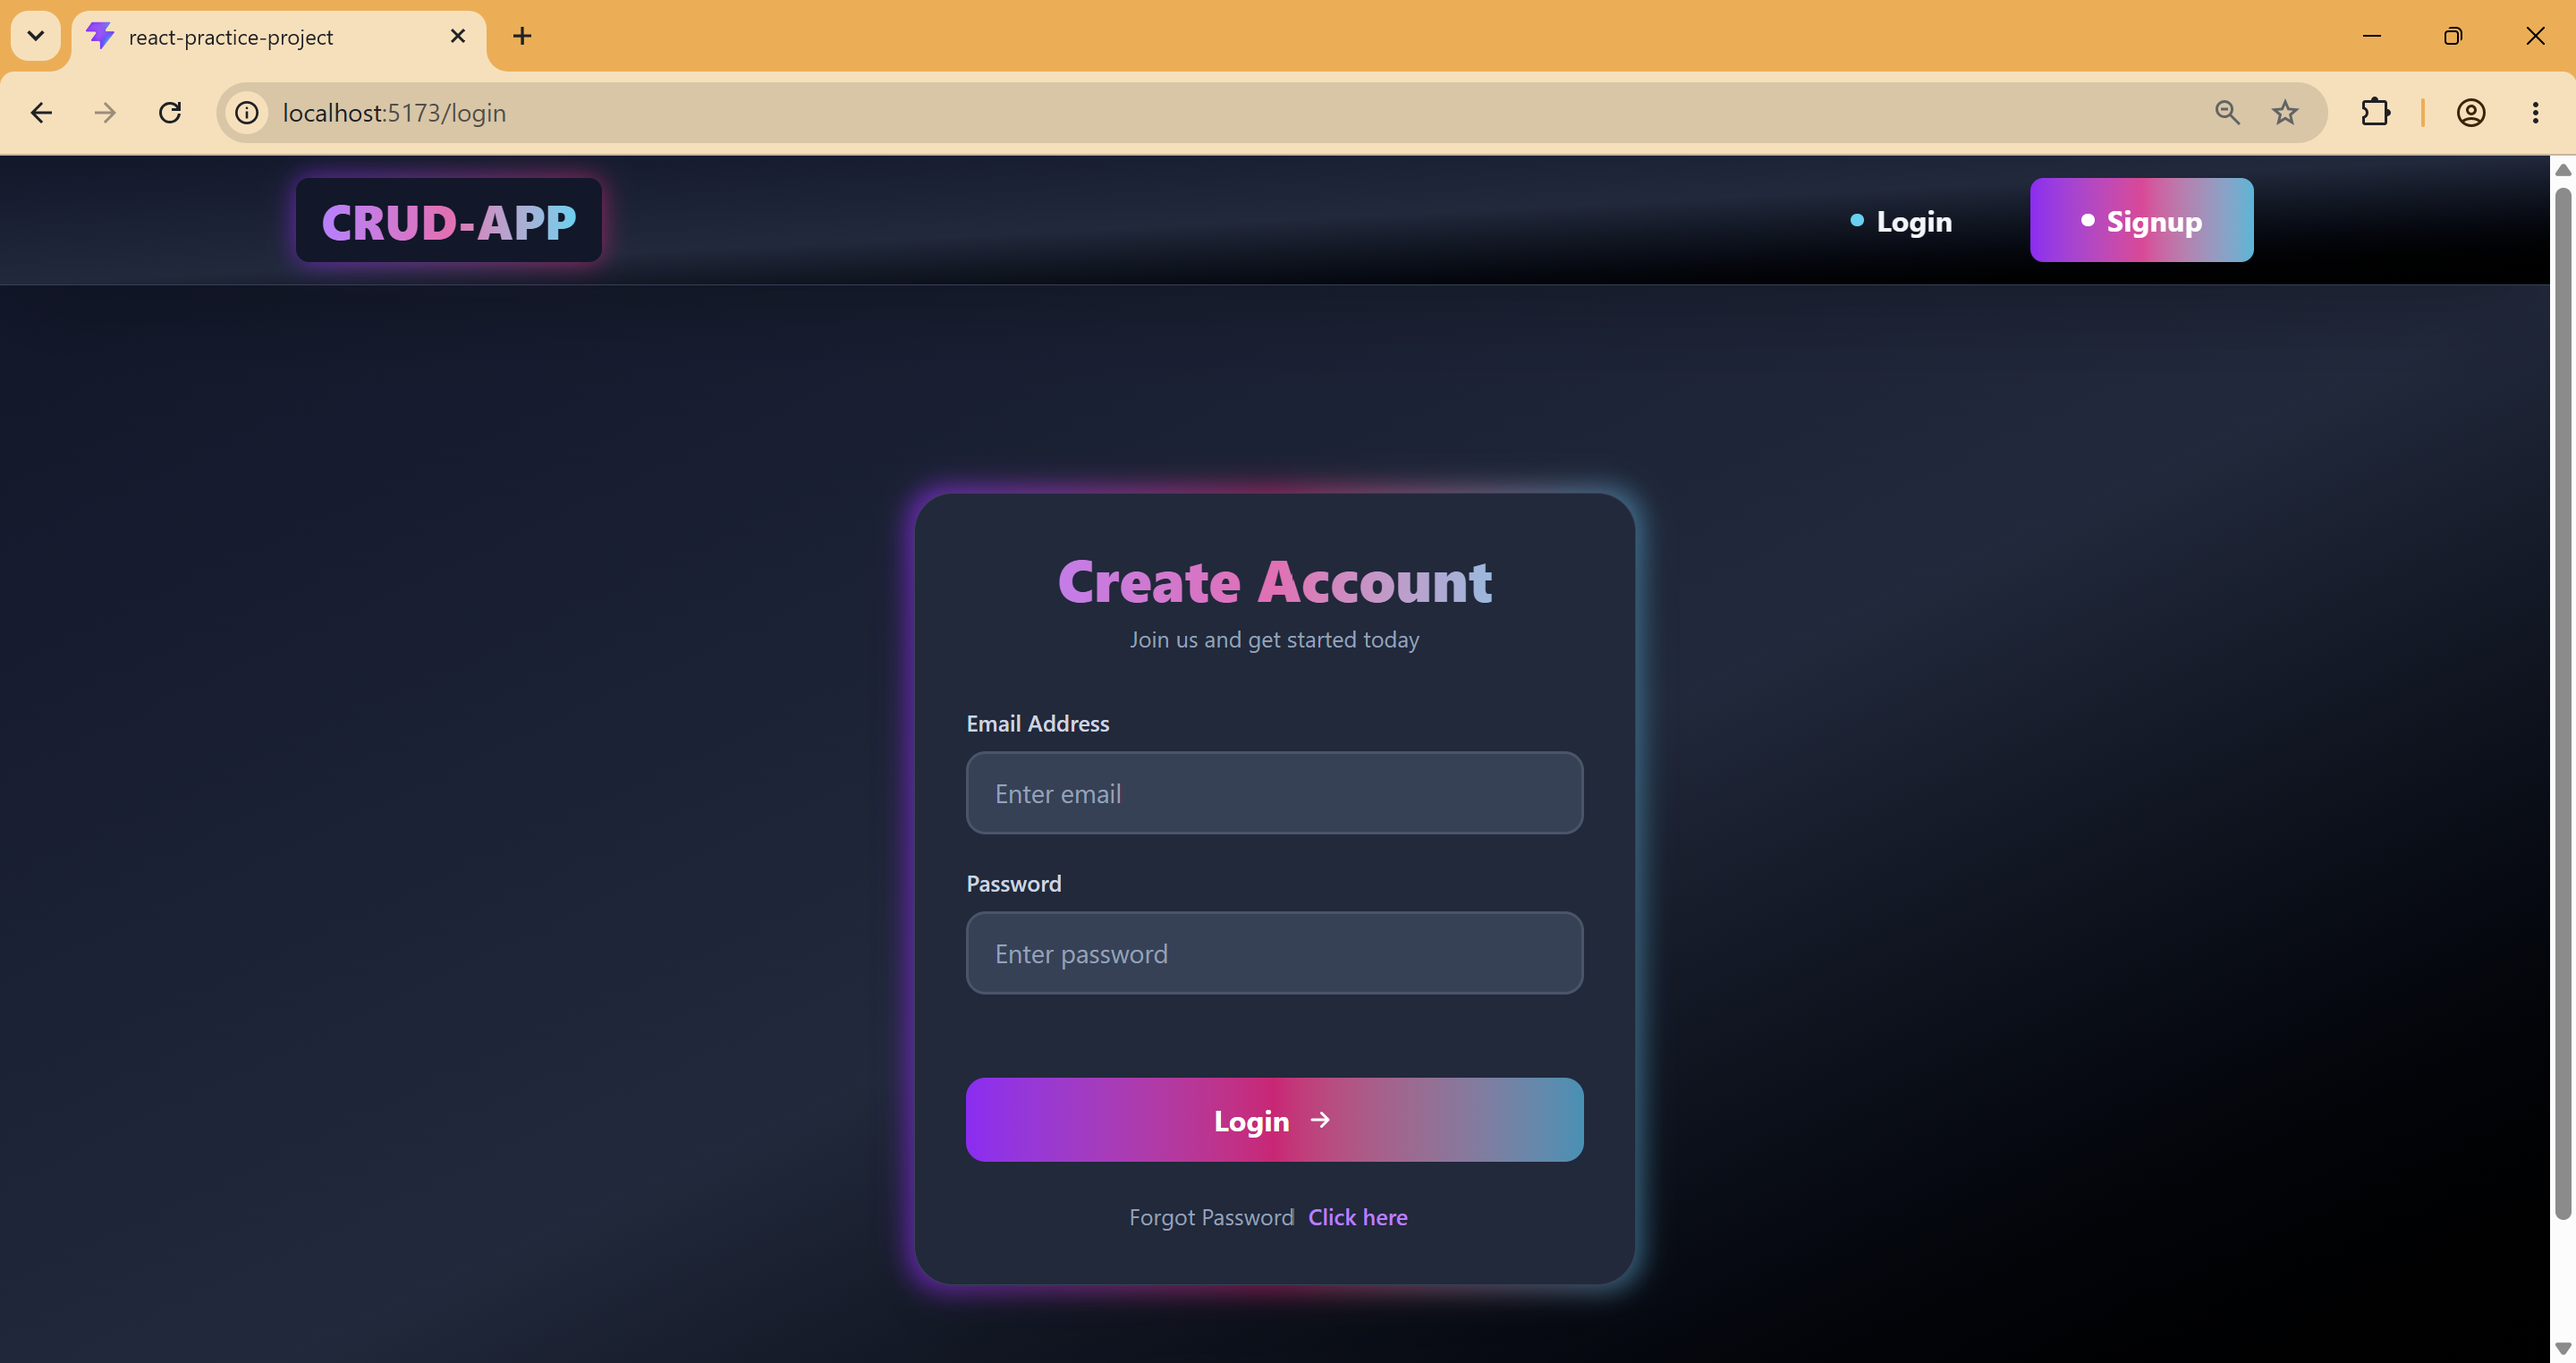
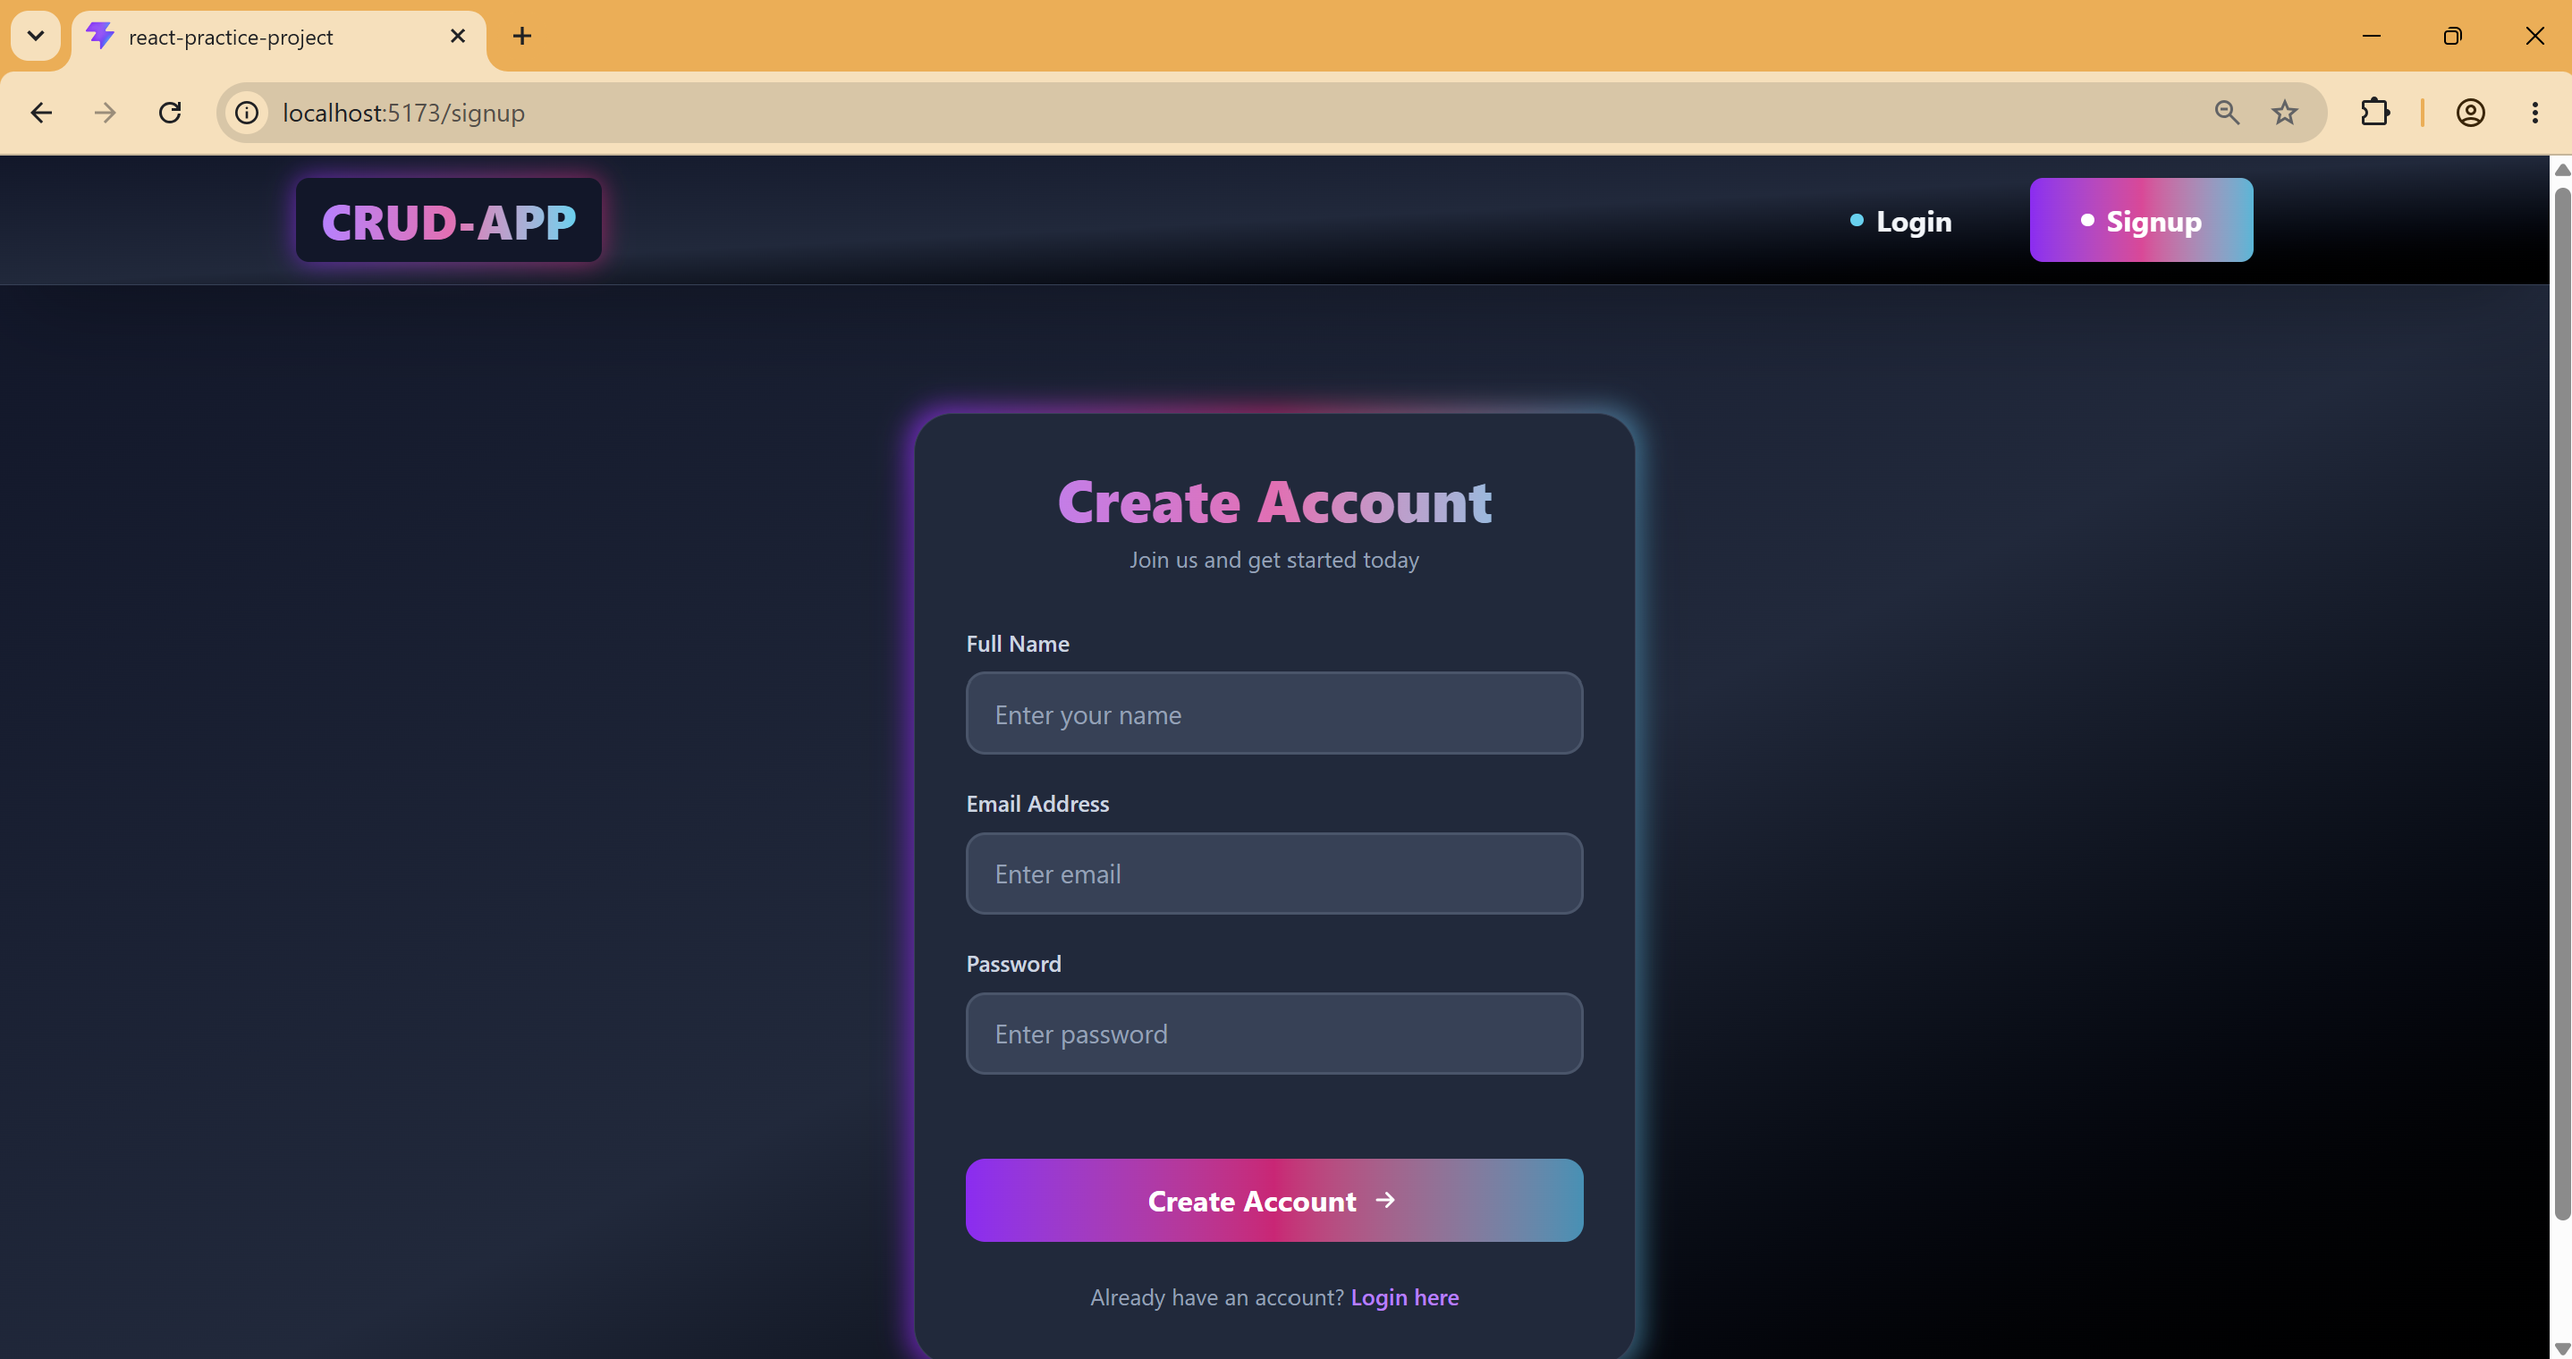
final commit

diff --git a/README.md b/README.md
@@ -81,8 +81,6 @@ Open the app at `http://localhost:5173` and make sure JSON Server is running on 
 
 ## 🖼 Screenshots
 
-> These are placeholder image links. Replace them with actual screenshots from your app.
-
 ![Home Dashboard](screenshots/home-dashboard.png)
 ![Employee Table](screenshots/all-employees.png)
 ![Create Employee](screenshots/create-employee.png)
@@ -132,8 +130,3 @@ The app uses `backend/db.json` with sample accounts and employees:
 }
 ```
 
-## 💡 Notes
-
-- The app currently uses a simple client-side token stored in `localStorage` for authentication.
-- Replace the screenshot placeholders with real captures from your running app for a polished README.
-- I can also add a `Docker` or `Production Build` section if you want.
